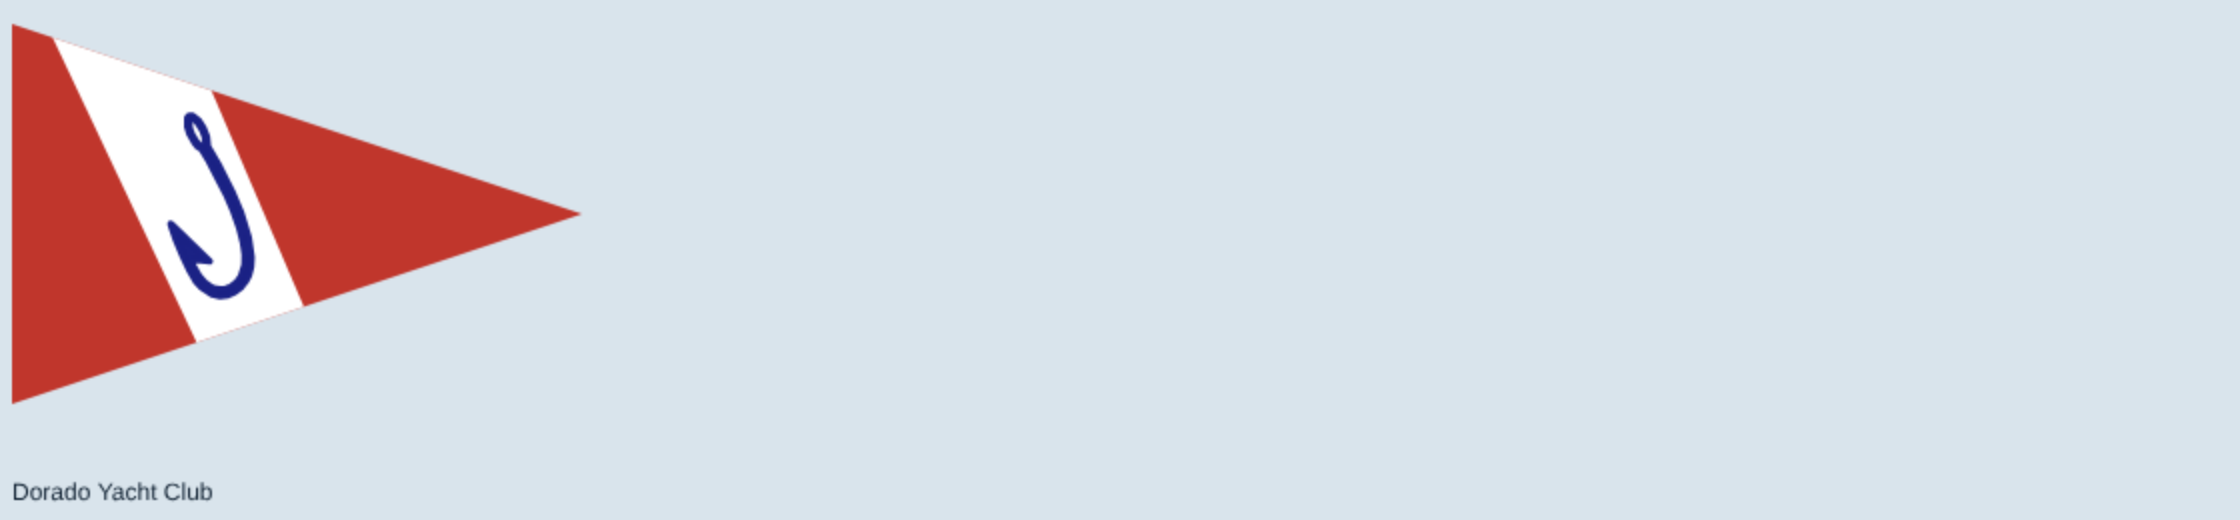
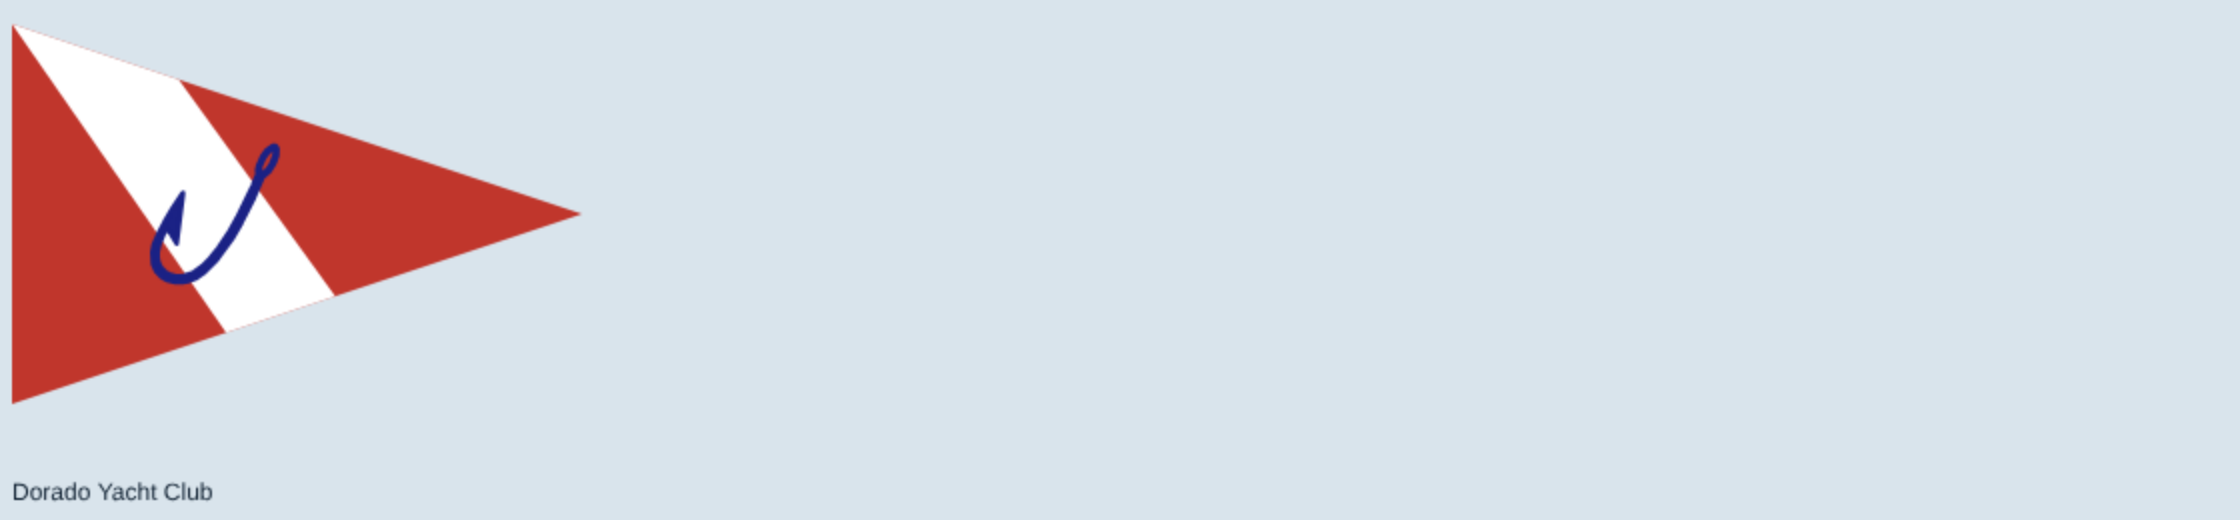
Burgees: Dorado, hook 20% larger across the stripes, left red ends at the corner, eye cut clear
Claude-Session: https://claude.ai/code/session_012Uu5QjYRsEpBxuz7xgHWhs

Changed region(s): [[0.0, 0.0615, 0.1562, 0.6462]]

diff --git a/src/render/burgeeArt.ts b/src/render/burgeeArt.ts
@@ -23,11 +23,13 @@ const arc = (g: G, c: string, w: number, x: number, y: number, r: number, a0: nu
 const HOOK_W = 0.917275;
 const HOOK_OUT: P[] = [[0.881, 0], [0.903, 0], [0.917, 0.022], [0.915, 0.073], [0.895, 0.129], [0.859, 0.187], [0.808, 0.234], [0.745, 0.382], [0.652, 0.567], [0.584, 0.684], [0.474, 0.835], [0.375, 0.934], [0.319, 0.971], [0.263, 0.993], [0.224, 1], [0.17, 1], [0.112, 0.985], [0.068, 0.961], [0.029, 0.92], [0.005, 0.866], [0, 0.779], [0.01, 0.727], [0.049, 0.635], [0.09, 0.557], [0.153, 0.45], [0.221, 0.35], [0.226, 0.345], [0.226, 0.358], [0.18, 0.718], [0.129, 0.635], [0.1, 0.611], [0.054, 0.72], [0.041, 0.779], [0.041, 0.822], [0.051, 0.864], [0.066, 0.891], [0.095, 0.922], [0.122, 0.939], [0.17, 0.954], [0.224, 0.954], [0.302, 0.927], [0.363, 0.883], [0.421, 0.825], [0.484, 0.747], [0.555, 0.642], [0.62, 0.528], [0.732, 0.297], [0.769, 0.209], [0.766, 0.178], [0.774, 0.144], [0.803, 0.078], [0.835, 0.034]];
 const HOOK_EYE: P[] = [[0.881, 0.044], [0.876, 0.073], [0.854, 0.127], [0.83, 0.163], [0.805, 0.187], [0.81, 0.153], [0.83, 0.107], [0.852, 0.073]];
-function hook(g: G, cx: number, cy: number, h: number, c: string, ground: string, rot = 0, lw = 0.032): void {
-  // The traced line is thin, so the outline is thickened to read from a distance; the eye is then cut back out in the field's color.
-  g.save(); g.translate(cx, cy); g.rotate(rot); g.translate(-HOOK_W * h / 2, -h / 2); g.scale(h, h); g.fillStyle = c; g.strokeStyle = c; g.lineWidth = lw; g.lineJoin = 'round';
-  g.beginPath(); HOOK_OUT.forEach(([x, y], i) => (i ? g.lineTo(x, y) : g.moveTo(x, y))); g.closePath(); g.fill(); g.stroke();
-  g.fillStyle = ground; g.beginPath(); HOOK_EYE.forEach(([x, y], i) => (i ? g.lineTo(x, y) : g.moveTo(x, y))); g.closePath(); g.fill(); g.restore();
+function hook(g: G, cx: number, cy: number, h: number, c: string, rot = 0, lw = 0.032): void {
+  // The traced line is thin, so the outline is thickened to read from a distance; the eye is then cut clear through, so whatever lies under it shows.
+  const t = document.createElement('canvas'); t.width = g.canvas.width; t.height = g.canvas.height; const k = t.getContext('2d')!;
+  k.translate(cx, cy); k.rotate(rot); k.translate(-HOOK_W * h / 2, -h / 2); k.scale(h, h); k.fillStyle = c; k.strokeStyle = c; k.lineWidth = lw; k.lineJoin = 'round';
+  k.beginPath(); HOOK_OUT.forEach(([x, y], i) => (i ? k.lineTo(x, y) : k.moveTo(x, y))); k.closePath(); k.fill(); k.stroke();
+  k.globalCompositeOperation = 'destination-out'; k.beginPath(); HOOK_EYE.forEach(([x, y], i) => (i ? k.lineTo(x, y) : k.moveTo(x, y))); k.closePath(); k.fill();
+  g.drawImage(t, 0, 0);
 }
 
 /** A border just inside the cut (a fimbriation, as classic burgees have): d is its width as a share of the hoist. */
@@ -68,8 +70,8 @@ export const PARODY_BURGEES: Burgee[] = [
       poly(g, RED, q(-0.2, 0.33), q(-0.13, 0.2), q(-0.07, 0.28), q(0, 0.15), q(0.07, 0.28), q(0.13, 0.2), q(0.2, 0.33)); // rising from the flames
       border(g, W, H, 'swallow', WHITE, 0.035); } },
   { id: 'ggyc', shape: 'pennant', ratio: 1.5, // scrappy fishermen's club (Puerto d'Oro), from the owner's second template: the bridge's orange cut by a slanting white band, one dark-blue hook in it (to flag for IP review: the template is a real layout)
-    draw: (g, W, H) => { fill(g, W, H, '#c0362c'); poly(g, WHITE, [W * 0.06, 0], [W * 0.3, 0], [W * 0.585, H], [W * 0.375, H]);
-      hook(g, W * 0.345, H * 0.49, H * 0.38, '#1b2285', WHITE, -0.93, 0.045); } },
+    draw: (g, W, H) => { fill(g, W, H, '#c0362c'); poly(g, WHITE, [0, 0], [W * 0.222, 0], [W * 0.8, H * 1.2], [W * 0.555, H * 1.2]);
+      hook(g, W * 0.356, H * 0.5, H * 0.36, '#1b2285'); } },
   { id: 'sbyc', shape: 'pennant', ratio: 1.6, // modern urban: harbor blue and orange, one bridge span
     draw: (g, W, H) => { fill(g, W, H, '#0f5f99'); rect(g, '#f08a1c', W * 0.05, H * 0.62, W * 0.3, H * 0.09); arc(g, '#f08a1c', H * 0.1, W * 0.2, H * 0.62, H * 0.2, Math.PI, 0); } },
   { id: 'bvbc', shape: 'pennant', ratio: 1.5, // working waterfront: dark blue, rust, cream; a keel in its cradle
